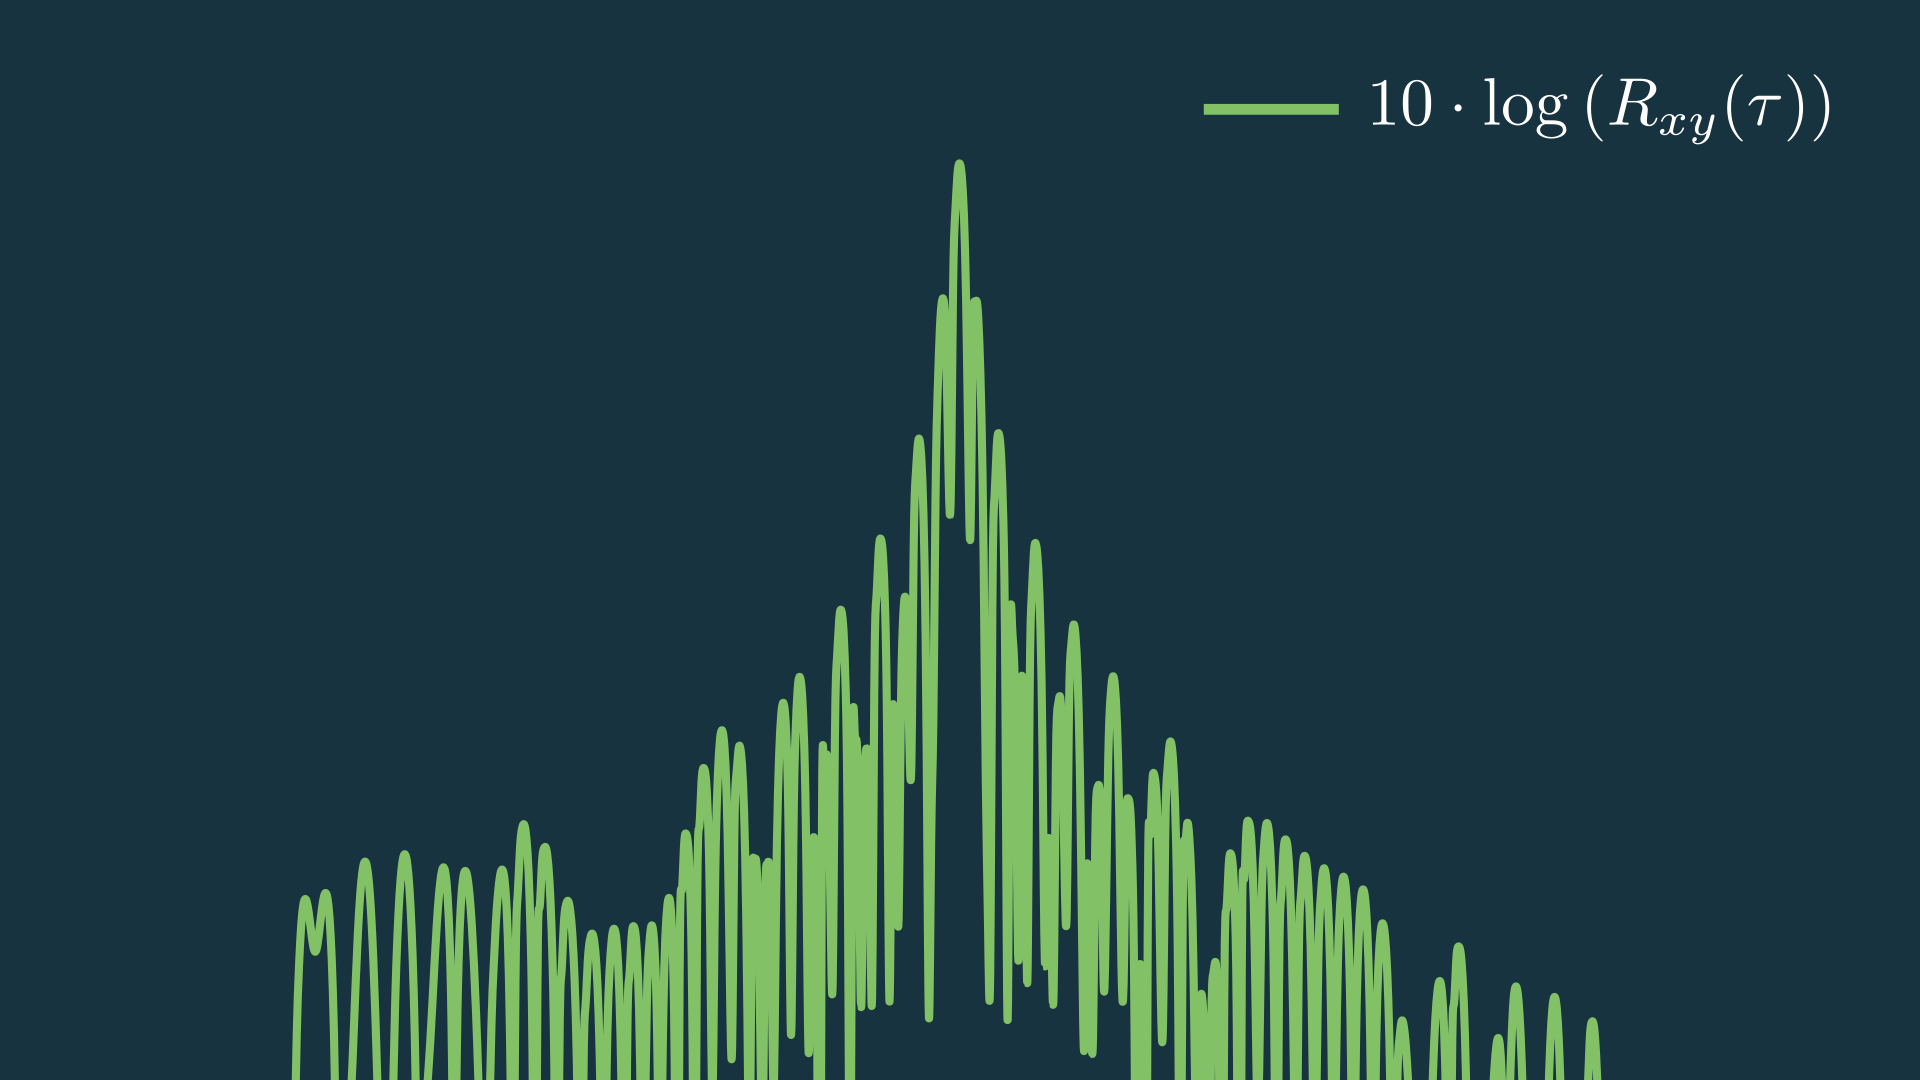
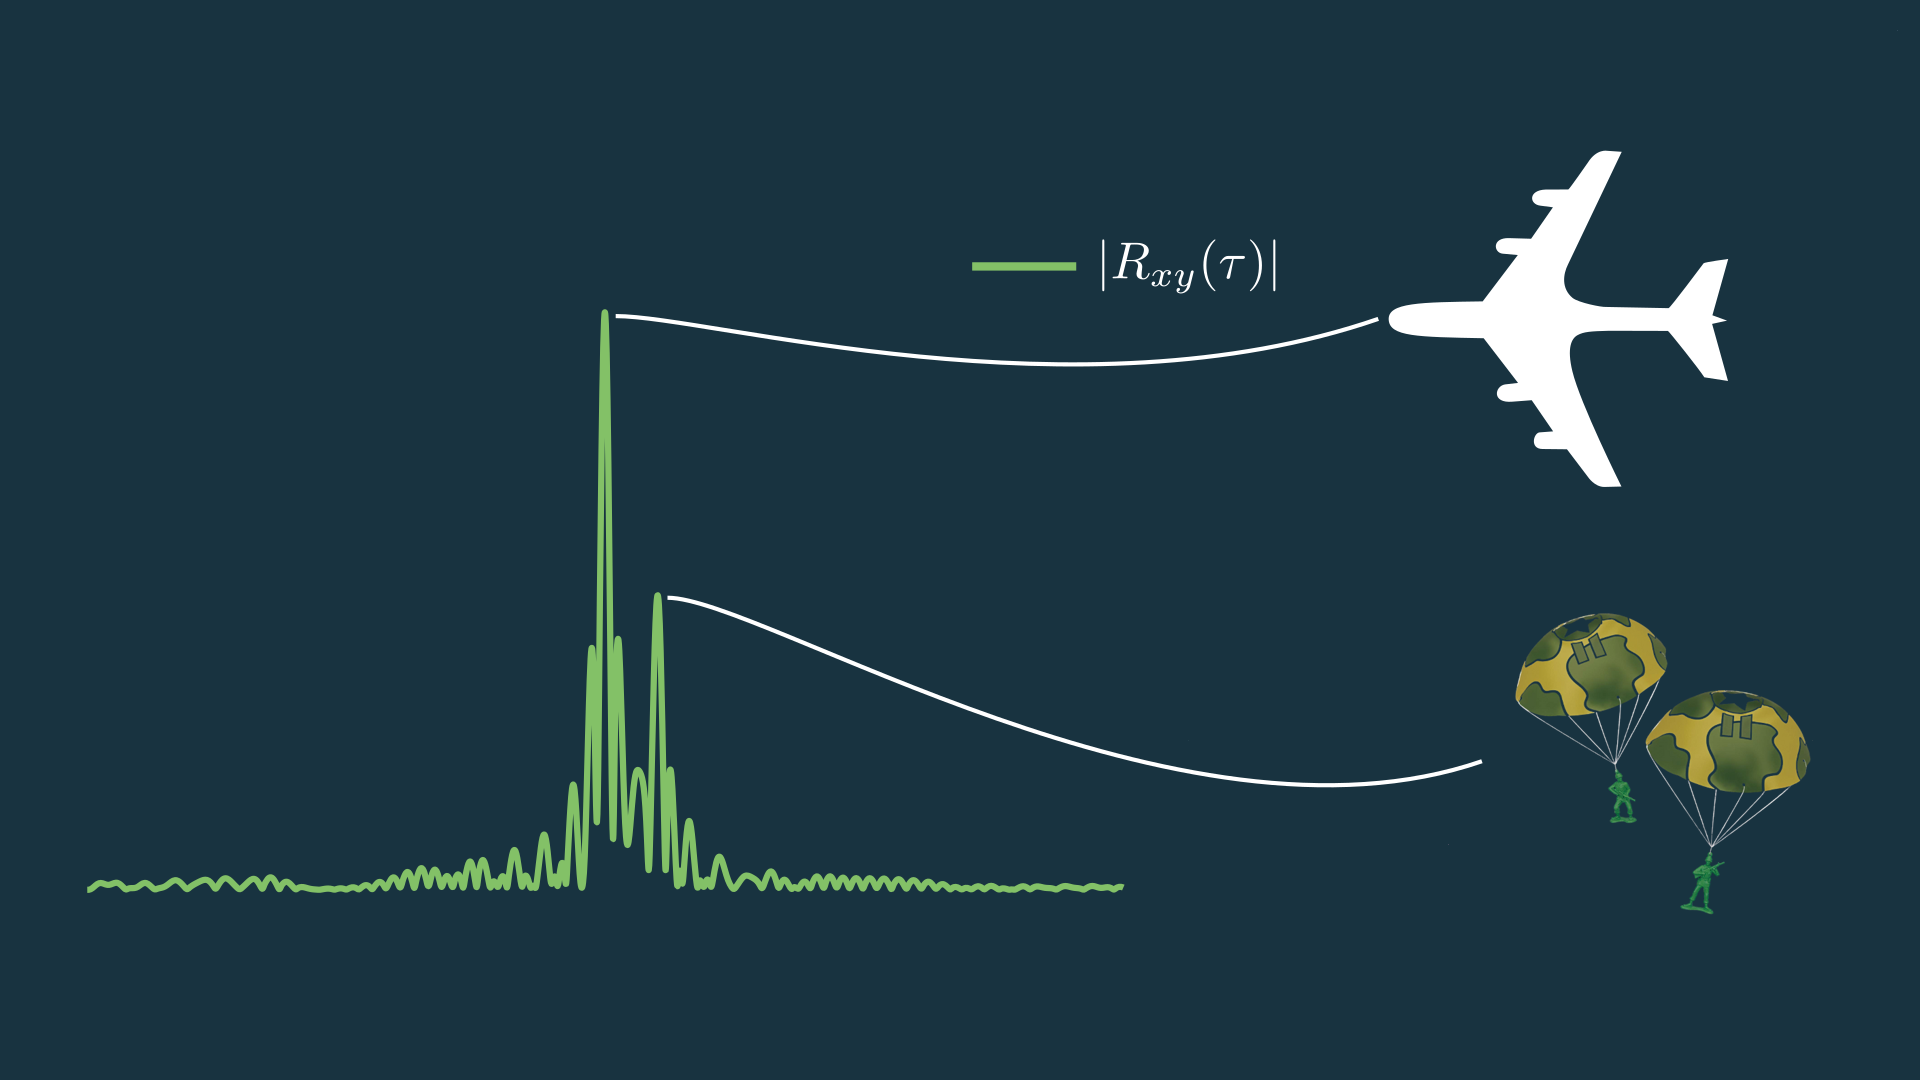
added some toy story army men

diff --git a/13_pulse_compression/pulse_compression.py b/13_pulse_compression/pulse_compression.py
@@ -15,9 +15,9 @@ from props.style import BACKGROUND_COLOR, IF_COLOR, RX_COLOR, TX_COLOR
 
 config.background_color = BACKGROUND_COLOR
 
-SKIP_ANIMATIONS_OVERRIDE = True
+SKIP_ANIMATIONS_OVERRIDE = False
 
-FONT = "Maple Mono"
+FONT = "Maple Mono CN"
 
 BLOCKS = get_blocks()
 
@@ -3569,7 +3569,7 @@ class Tradeoffs(MovingCameraScene):
         pulse_f = 20
         pulse_f1 = VT(pulse_f * 5)
         pw_plot = VT(0.3)
-        is_db = VT(0)
+        is_abs = VT(0)
 
         xcorr_ax = (
             Axes(
@@ -3590,6 +3590,9 @@ class Tradeoffs(MovingCameraScene):
 
         fs = 2**10
 
+        rtn_amp_1 = VT(1)
+        rtn_amp_2 = VT(0)
+
         def get_xcorr():
             t_discreet = np.arange(0, 1, 1 / fs)
             tau = 0.3
@@ -3608,12 +3611,14 @@ class Tradeoffs(MovingCameraScene):
                     for t_val in t_discreet
                 ]
             )
-            pulse_starts = [tau]
+            pulse_starts = [tau, tau * 1.1]
+            pulse_amps = [~rtn_amp_1, ~rtn_amp_2]
             rtn = np.array(
                 np.sum(
                     [
                         [
-                            chirp_pulse(
+                            pa
+                            * chirp_pulse(
                                 t_val=t_val,
                                 pulse_start=ps,
                                 pulse_width=tau,
@@ -3625,7 +3630,7 @@ class Tradeoffs(MovingCameraScene):
                             )
                             for t_val in t_discreet
                         ]
-                        for ps in pulse_starts
+                        for ps, pa in zip(pulse_starts, pulse_amps)
                     ],
                     axis=0,
                 )
@@ -3637,16 +3642,16 @@ class Tradeoffs(MovingCameraScene):
             rtn_matched *= 2 * ~xcorr_amp
             t_full = np.arange(rtn_matched.size) / fs - tau
 
-            rtn_matched_db = np.clip(10 * np.log10(np.abs(rtn_matched)), -50, None)
-            rtn_matched_db -= np.nanmin(rtn_matched_db)
-            rtn_matched_db /= np.nanmax(rtn_matched_db)
-            rtn_matched_db *= rtn_matched.max()
-            rtn_matched_db *= 4
-            rtn_matched_db -= 6
+            # rtn_matched_db = np.clip(10 * np.log10(np.abs(rtn_matched)), -50, None)
+            # rtn_matched_db -= np.nanmin(rtn_matched_db)
+            # rtn_matched_db /= np.nanmax(rtn_matched_db)
+            # rtn_matched_db *= rtn_matched.max()
+            # rtn_matched_db *= 4
+            # rtn_matched_db -= 6
 
             func = interp1d(
                 t_full - tau,
-                rtn_matched * (1 - ~is_db) + rtn_matched_db * ~is_db,
+                rtn_matched * (1 - ~is_abs) + (np.abs(rtn_matched) * 1.5 - 1) * ~is_abs,
                 fill_value="extrapolate",
             )
 
@@ -3689,7 +3694,7 @@ class Tradeoffs(MovingCameraScene):
         )
         self.add(sinc)
 
-        self.next_section(skip_animations=skip_animations(False))
+        self.next_section(skip_animations=skip_animations(True))
 
         xcorr_line_legend = Line(
             ORIGIN,
@@ -4002,25 +4007,27 @@ class Tradeoffs(MovingCameraScene):
 
         self.wait(0.5)
 
-        xcorr_legend_db = (
-            MathTex(r"10 \cdot \log{(R_{xy}(\tau))}")
+        xcorr_legend_abs = (
+            MathTex(r"\lvert R_{xy}(\tau) \rvert")
             .move_to(xcorr_legend, RIGHT)
             .shift(RIGHT + UP / 2)
         )
+
+        self.next_section(skip_animations=skip_animations(True))
 
         self.play(
             LaggedStart(
                 FadeOut(side_lobe_box_l, side_lobe_box_r),
                 AnimationGroup(
                     self.camera.frame.animate.scale(1 / 0.8),
-                    is_db @ 1,
-                    xcorr_line_legend.animate.next_to(xcorr_legend_db, LEFT),
+                    is_abs @ 1,
+                    xcorr_line_legend.animate.next_to(xcorr_legend_abs, LEFT),
                     LaggedStart(
-                        ReplacementTransform(xcorr_legend[0], xcorr_legend_db[0][7:-1]),
-                        GrowFromCenter(xcorr_legend_db[0][:2]),
-                        GrowFromCenter(xcorr_legend_db[0][2]),
-                        GrowFromCenter(xcorr_legend_db[0][3:7]),
-                        GrowFromCenter(xcorr_legend_db[0][-1]),
+                        ReplacementTransform(
+                            xcorr_legend[0], xcorr_legend_abs[0][1:-1]
+                        ),
+                        GrowFromCenter(xcorr_legend_abs[0][0]),
+                        GrowFromCenter(xcorr_legend_abs[0][-1]),
                         lag_ratio=0.3,
                     ),
                     run_time=3,
@@ -4028,6 +4035,69 @@ class Tradeoffs(MovingCameraScene):
                 lag_ratio=0.3,
             ),
         )
+
+        self.wait(0.5)
+        self.next_section(skip_animations=skip_animations(False))
+
+        plane = (
+            SVGMobject("../props/static/plane.svg")
+            .scale_to_fit_width(fw(self, 0.2))
+            .rotate(PI * 0.75)
+            .set_fill(WHITE)
+            .set_color(WHITE)
+            .move_to(legend_group)
+            .shift(RIGHT * 4)
+        )
+        parachute = (
+            ImageMobject("../props/static/Parachute Army Toy.png")
+            .scale_to_fit_width(plane.width)
+            .next_to(plane, DOWN, LARGE_BUFF)
+            .shift(RIGHT)
+        )
+
+        all_group = Group(xcorr_plot, plane, parachute, legend_group)
+
+        self.play(
+            LaggedStart(
+                self.camera.frame.animate.scale_to_fit_width(
+                    all_group.width * 1.1
+                ).move_to(all_group),
+                plane.shift(RIGHT * 8).animate.shift(LEFT * 8),
+                lag_ratio=0.4,
+            )
+        )
+
+        self.wait(0.5)
+
+        plane_bez = CubicBezier(
+            plane.get_left() + [-0.1, 0, 0],
+            plane.get_left() + [-3, -1, 0],
+            xcorr_ax.c2p(0, 1.9) + [1, 0.1, 0],
+            xcorr_ax.c2p(0, 1.9) + [0.1, 0.1, 0],
+        )
+        self.play(Create(plane_bez))
+
+        self.wait(0.5)
+
+        parachute_bez = CubicBezier(
+            parachute.get_left() + [-0.1, 0, 0],
+            parachute.get_left() + [-3, -1, 0],
+            xcorr_ax.c2p(~pw_plot * 0.1, 0.45) + [1, 0.1, 0],
+            xcorr_ax.c2p(~pw_plot * 0.1, 0.45) + [0.1, 0.1, 0],
+        )
+        self.play(
+            LaggedStart(
+                FadeIn(parachute, shift=DOWN + RIGHT),
+                rtn_amp_2 @ 0.5,
+                Create(parachute_bez),
+                lag_ratio=0.3,
+            )
+        )
+
+        # self.wait(0.5)
+
+        # self.play(rtn_amp_2 @ 0.5)
+        # self.play(pulse_f1 @ (~pulse_f1 / 2))
 
         self.wait(2)
 

diff --git a/13_pulse_compression/media/Tex/4e73132856230697.tex b/13_pulse_compression/media/Tex/4e73132856230697.tex
@@ -1,0 +1,9 @@
+\documentclass[preview]{standalone}
+\usepackage[english]{babel}
+\usepackage{amsmath}
+\usepackage{amssymb}
+\begin{document}
+\begin{align*}
+\abs{(R_{xy}(\tau))}
+\end{align*}
+\end{document}

diff --git a/13_pulse_compression/media/Tex/799607fcc58f7b0f.tex b/13_pulse_compression/media/Tex/799607fcc58f7b0f.tex
@@ -1,0 +1,9 @@
+\documentclass[preview]{standalone}
+\usepackage[english]{babel}
+\usepackage{amsmath}
+\usepackage{amssymb}
+\begin{document}
+\begin{align*}
+\lvert R_{xy}(\tau) \rvert
+\end{align*}
+\end{document}